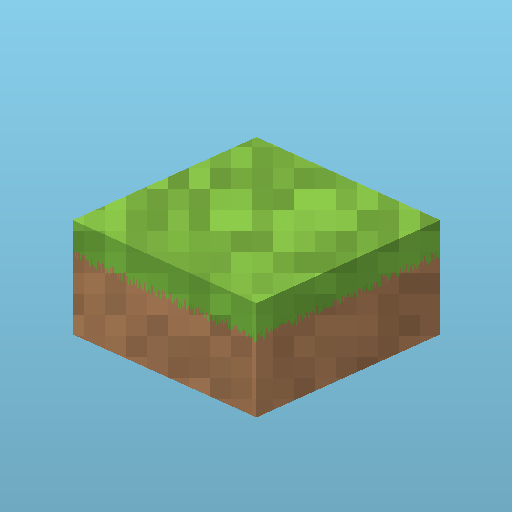
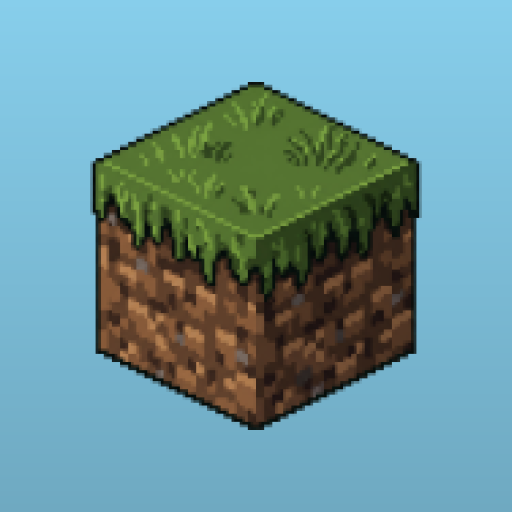
ícone: bloco de grama do usuário no lugar do desenho em código
A arte nova (isométrica, pixel art, com a grama caída) entra como
tools/grass-block.png (128x128, RGBA, filtro 0), depois de tirar o
xadrez de transparência que veio no JPEG.

- tools/make-icons.mjs deixa de desenhar polígonos e passa a reamostrar a
  arte por média de área (crisp ao ampliar, legível ao reduzir), com o
  decodificador de PNG embutido;
- os cinco PNGs são regerados; blockRatio escolhido pelo raio do conteúdo
  (0,544 do lado): 0,68 no maskable e 0,72 no iOS;
- favicon continua chapado, agora por quantização a cinco tons;
- service worker v21; README, TESTE-EM-NAVEGADOR e MELHORIA novos.

diff --git a/service-worker.js b/service-worker.js
@@ -24,7 +24,7 @@
 // versões antigas do cache.
 
 const CACHE_PREFIX = 'voxel-sandbox';
-const CACHE_VERSION = 'v20';
+const CACHE_VERSION = 'v21';
 const CACHE_NAME = `${CACHE_PREFIX}-${CACHE_VERSION}`;
 const OFFLINE_DOCUMENT = './index.html';
 

diff --git a/MELHORIA-20261105-icone-do-jogo.md b/MELHORIA-20261105-icone-do-jogo.md
@@ -1,0 +1,85 @@
+# MELHORIA: o ícone do jogo
+
+- **Data:** 05/11/2026 (depois do [título do menu](MELHORIA-20261105-titulo-do-menu.md))
+- **Status:** implementado
+- **Arquivos:** `tools/grass-block.png` (novo, a arte), `tools/make-icons.mjs`
+  (desenho trocado por reamostragem), `icons/` (5 PNGs regerados),
+  `service-worker.js`, `README.md`, `TESTE-EM-NAVEGADOR.md`
+
+## O que mudou
+
+O ícone do app era **desenhado em código**: `tools/make-icons.mjs` calculava os
+polígonos do bloco, a faixa de grama e o ruído de pixel, e escrevia o PNG. Saía
+limpo e coerente, mas era um bloco genérico — sem a textura que o jogo tem.
+
+Agora o ícone é a **arte do bloco de grama** que você mandou (isométrico, pixel
+art, com a grama caindo pelas laterais), guardada em `tools/grass-block.png`.
+
+## O que foi feito com a imagem original
+
+Veio em JPEG 2048×2048 com o **xadrez de transparência desenhado nos pixels**
+(JPEG não tem canal alfa). O tratamento, feito uma vez e fora do repositório:
+
+1. **flood fill pelas bordas** marcando cinza-claro neutro (`máximo ≥ 170` e
+   `máximo − mínimo ≤ 14`) — o preenchimento para no contorno preto do bloco, e
+   o critério de neutralidade impede que a grama clara seja comida;
+2. **ilhas soltas** (resíduos do xadrez com menos de 4 mil pixels) apagadas;
+3. recorte na caixa do bloco, centralização num quadrado e redução para
+   **128×128** com média de área — a resolução natural do pixel art, que
+   reamostrada para 512 continua com as bordas em degrau de bloco.
+
+O PNG final sai com **filtro 0 em todas as linhas** (33 KB → 25 KB), o mesmo
+formato que o projeto escreve, para o decodificador dos testes continuar
+valendo.
+
+## O gerador
+
+`renderIcon(size, { background, blockRatio, texture })` deixou de desenhar e
+passou a **reamostrar** a arte por média de área:
+
+- a média de área (e não o pixel mais próximo) é o que mantém o bloco legível
+  nos ícones pequenos — em 32 px cada pixel do ícone cobre vários da arte;
+- quando o ícone é maior que 128, a média cai exatamente sobre um pixel da arte,
+  então o pixel art continua **crisp**, sem borrão;
+- `background` compõe o céu (com o mesmo degradê de cima para baixo de antes) e
+  o `blockRatio` decide quanto do quadro o bloco ocupa;
+- `texture: false` reduz tudo a uma **paleta de cinco tons** — é o que salva o
+  favicon em 16 px.
+
+O decodificador de PNG passou a viver também no gerador (antes só existia em
+`tests/helpers/png.mjs`), com erro explícito se a arte vier com filtro diferente
+de 0.
+
+## Os tamanhos
+
+A arte tem conteúdo até **0,544 do lado** (medido pixel a pixel), e os testes
+cobram que nada escape do círculo seguro do Android (raio 0,40 do quadro) nem do
+canto arredondado do iOS (0,48). Daí os fatores:
+
+| Arquivo | Lado | Fundo | `blockRatio` | Por quê |
+| --- | --- | --- | --- | --- |
+| `icon-192.png` / `icon-512.png` | 192 / 512 | transparente | 0,92 | janela, dock e lista de apps |
+| `icon-maskable-512.png` | 512 | céu | 0,68 | Android recorta em círculo: 0,68 × 0,544 = 0,37 do quadro |
+| `apple-touch-icon-180.png` | 180 | céu, opaco | 0,72 | iOS pinta transparência de preto |
+| `favicon-32.png` | 32 | transparente, chapado | 0,98 | 5 cores: em 16 px textura vira sujeira |
+
+Os oito testes de `tests/icons.test.mjs` continuam passando sem alteração — o
+contrato (círculo seguro, opacidade do iOS, favicon chapado, verde em cima e
+terra embaixo) é o mesmo, só a arte mudou.
+
+## Como regerar
+
+```bash
+node tools/make-icons.mjs   # regera os 5 PNGs a partir de tools/grass-block.png
+npm test                    # inclui os 8 testes de ícone
+```
+
+Para trocar a arte no futuro: substitua `tools/grass-block.png` por outro RGBA
+8 bits, quadrado, com filtro 0 e fundo transparente, e rode o gerador.
+
+## Pendências
+
+- Conferir no aparelho: Android (launcher em círculo e em quadrado), iPhone
+  ("Adicionar à Tela de Início") e a aba do navegador em 16 px.
+- `manifest.webmanifest` ainda se chama **Voxel Sandbox** — o nome de instalação
+  do app é outro assunto, junto com o `<title>` da aba.

diff --git a/TESTE-EM-NAVEGADOR.md b/TESTE-EM-NAVEGADOR.md
@@ -28,16 +28,16 @@ aparelho do jogador.
       ícones 192, 512 e maskable carregando.
 - [ ] Clicar no botão abre o convite do navegador; aceitar abre o jogo numa
       **janela própria**, sem barra de endereço.
-- [ ] O ícone na barra de tarefas (ou no dock) é o bloco inteiro, sem borda
-      preta e sem corte.
+- [ ] O ícone na barra de tarefas (ou no dock) é o bloco de grama em pixel art
+      (com a grama caída pelas laterais), inteiro, sem borda preta e sem corte.
 - [ ] O favicon na aba lê como um bloco, não como um borrão.
 
 ## 2. Chrome no Android
 
 - [ ] O botão **Instalar app** aparece no menu inicial e instala.
-- [ ] No launcher, o ícone é o bloco inteiro **com fundo de céu**, tanto no
-      recorte circular quanto no quadrado arredondado (alguns launchers deixam
-      escolher; se der, teste os dois).
+- [ ] No launcher, o ícone é o bloco de grama **com fundo de céu**, inteiro e
+      sem corte, tanto no recorte circular quanto no quadrado arredondado (alguns
+      launchers deixam escolher; se der, teste os dois).
 - [ ] Abrir pelo ícone: sem barra do navegador (`display: standalone`).
 - [ ] Jogar uns 10 segundos: andar, quebrar um bloco, colocar outro e sair.
 
@@ -428,7 +428,7 @@ Abra o jogo e pare na tela inicial (só olhar, não precisa entrar em mundo).
 | --- | --- |
 | Botão "Instalar app" não aparece | Abriu em iframe? É Firefox/Safari de desktop (não têm convite)? Já está instalado? O *Manifest* diz "Installability: no" com algum motivo? |
 | Manifest diz "no" | Rode em HTTPS/localhost; confira as abas *Manifest* (ícones com erro) e *Service Workers* (script não ativou) |
-| Instalou, mas o ícone está cortado | Recorte do launcher maior que o esperado: refaça o desenho com `node tools/make-icons.mjs` e olhe o círculo seguro em `tests/icons.test.mjs` |
+| Instalou, mas o ícone está cortado | Recorte do launcher maior que o esperado: baixe o `blockRatio` em `tools/make-icons.mjs`, rode `node tools/make-icons.mjs` e olhe o círculo seguro em `tests/icons.test.mjs` |
 | Ícone com fundo preto no iPhone | O `apple-touch-icon` está transparente: ele precisa ser opaco (teste cobre) |
 | Offline mostra erro 504 ou tela de branco | *Cache Storage*: o arquivo está lá? A instalação falhou (veja *Network* com o filtro "service worker")? |
 | Parece a versão antiga | `?sw=0` para confirmar que é cache; depois confira se `npm run stamp` foi rodado (hash novo = URL nova) |

diff --git a/README.md b/README.md
@@ -253,7 +253,7 @@ cinza do menu) que aparece quando há como instalar:
 | Service worker | `service-worker.js` | guarda **o jogo inteiro** na instalação (a lista sai do `index.html`) |
 | Registro | `world-pwa.js` | registra só em `http(s)`; `?sw=0` desliga |
 | Botão de instalar | `world-install-prompt.js` | decide quando mostrar e chama o convite do navegador (testado sem DOM) |
-| Ícones | `icons/` | gerados por `tools/make-icons.mjs` (PNG escrito na mão, sem dependência): bloco transparente para desktop, maskable com fundo para o Android e um opaco de 180 para o iOS |
+| Ícones | `icons/`, `tools/grass-block.png` | `tools/make-icons.mjs` reamostra a arte do bloco (`tools/grass-block.png`) e escreve os PNGs sem dependência: bloco transparente para desktop, maskable com fundo para o Android e um opaco de 180 para o iOS |
 
 **O que guardar vem do próprio `index.html`.** Na instalação o worker busca a
 página e lê duas coisas: o importmap (que já lista **todos** os módulos com o
